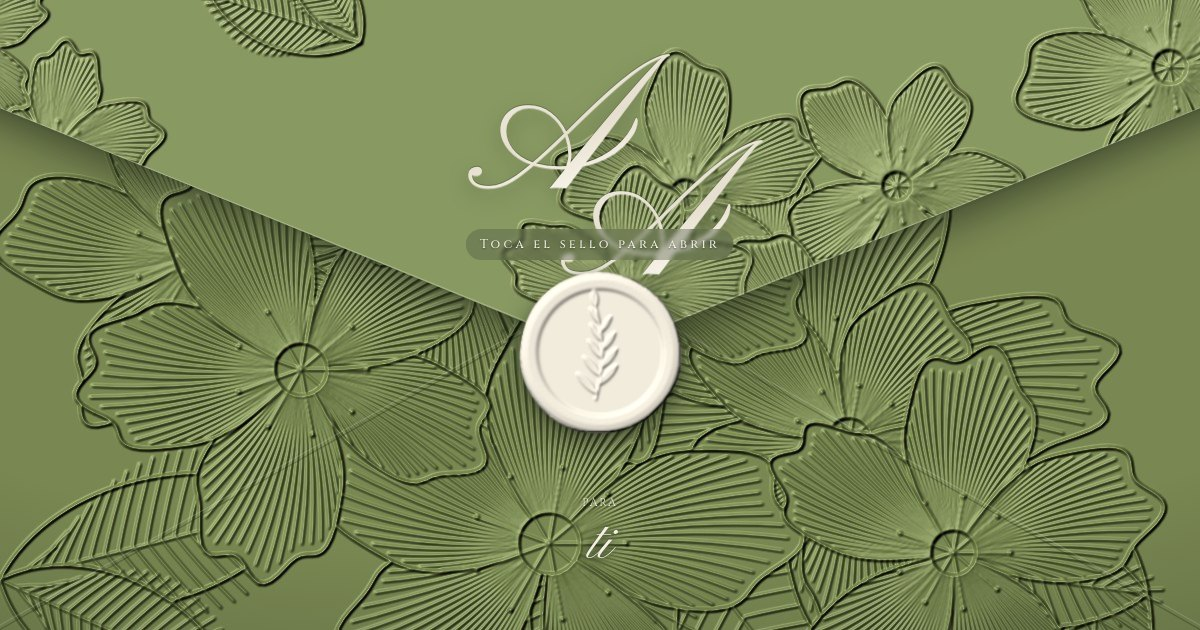
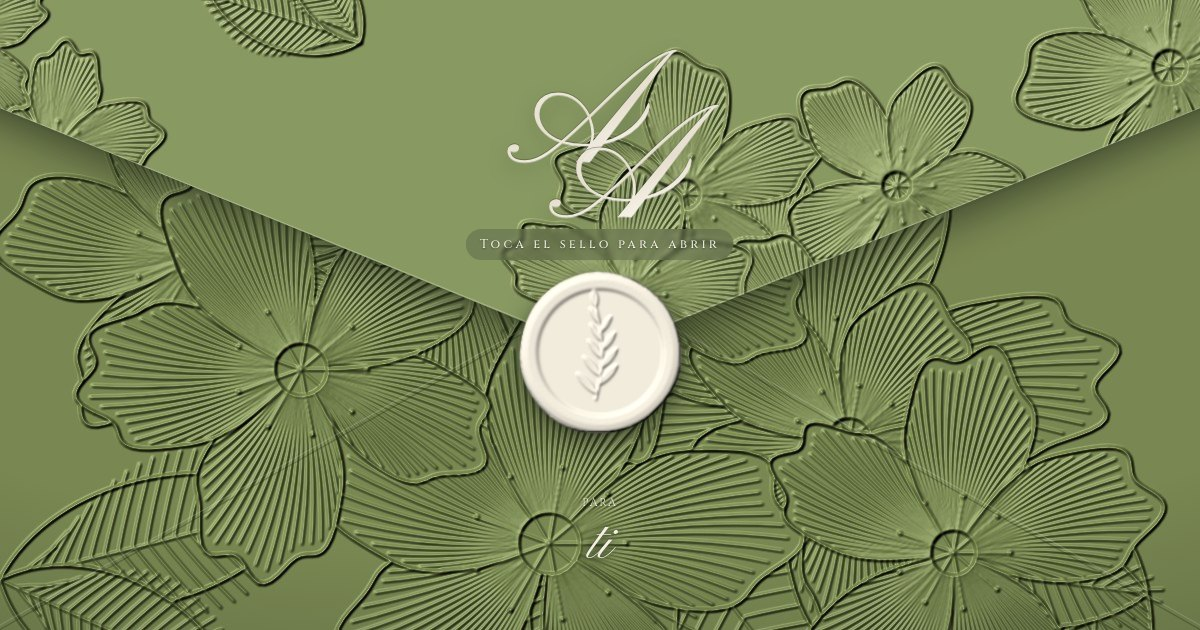
Invitación suelta: tarjeta «Celebra con nosotros» + «¡Prepárate!» (referencia elegida) y monograma del sobre sin tocar la solapa

Changed region(s): [[0.37, 0.0905, 0.6475, 0.4524], [0.5858, 0.1508, 0.6167, 0.181]]

diff --git a/public/inv/angeles-y-alejandro.html b/public/inv/angeles-y-alejandro.html
@@ -259,6 +259,32 @@
   @media (prefers-reduced-motion:reduce){ *{animation:none!important;transition:none!important} }
 </style>
 <style>:root{--salvia:#6b7a45;--salvia-2:#7b8a54;--salvia-osc:#4f5c2f;--bosque:#333d1f}</style><script>window.__PALETA=["#6b7a45","#7b8a54","#4f5c2f","#333d1f"]</script>
+<style>
+  .fc-seccion{gap:0;padding:0 4px}
+  .fc{width:min(420px,100%);padding:58px 26px 70px;border-radius:26px;display:flex;flex-direction:column;align-items:center;gap:6px}
+  .fc .sello-pega{left:50%;top:-30px;width:64px;height:64px;margin-left:-32px;transform:rotate(-8deg)}
+  .fc-titulo{font-size:clamp(17px,4.6vw,21px);letter-spacing:.22em}
+  .fc-mes{width:150px;height:40px;margin:4px 0 -10px;overflow:visible}
+  .fc-mes text{font-family:var(--grabado);font-size:17px;letter-spacing:.18em;fill:var(--tinta)}
+  .fc-fila{display:grid;grid-template-columns:1fr auto 1fr;align-items:center;gap:12px;width:100%}
+  .fc-fila span{font-family:var(--grabado);font-size:clamp(11px,3.2vw,14px);letter-spacing:.14em;line-height:1.35;padding:7px 0;border-top:.75px solid currentColor;border-bottom:.75px solid currentColor;opacity:.9}
+  .fc-fila b{font-family:var(--grabado);font-weight:400;font-size:clamp(52px,14vw,68px);line-height:1;font-variant-numeric:lining-nums}
+  .fc-novios{width:150px;height:150px;margin:4px 0 2px}
+  .fc-que{letter-spacing:.2em;font-size:13px}
+  .fc-lugar{margin:2px 0 8px;font-family:var(--palo);font-size:13px;letter-spacing:.1em}
+  .fc-prepara{width:min(440px,96%);margin-top:-40px;padding-bottom:34px;z-index:3}
+  .fc-prepara .titulo{letter-spacing:.24em}
+  .fc-sub{margin:6px 0 14px;letter-spacing:.24em;font-size:11px}
+  .fc-prepara .cuenta{background:none;box-shadow:none;padding:6px 0 10px}
+  .fc-prepara .cuenta div + div{border-left:0}
+  .fc-prepara .cuenta div{position:relative}
+  .fc-prepara .cuenta div + div::before{content:":";position:absolute;left:-.12em;top:0;font-family:var(--grabado);font-size:clamp(26px,7vw,38px);line-height:1;color:var(--salvia-osc);opacity:.6;transform:translateX(-50%)}
+  .fc-prepara .cuenta b{font-weight:400}
+  .fc-prepara .cuenta span{letter-spacing:.1em;font-size:9px}
+  /* monograma del sobre: dos letras anchas (A A) no deben tocar el borde de la solapa */
+  .monograma-sobre span{font-size:clamp(100px,26vmin,176px)}
+  .monograma-sobre .c{margin:.34em 0 0 -1.3em}
+</style>
 </head><body class="cerrada">
 <script>document.documentElement.classList.add("cerrada");</script>
 
@@ -443,14 +469,28 @@
     <cite id="verso-cita">Cantares 8:6–7</cite>
   </section>
 
-  <section class="faltan" aria-labelledby="t-faltan">
-    <h2 class="titulo" id="t-faltan">Faltan</h2>
-    <div class="cuenta" role="timer" aria-live="off">
-      <div><b id="dd">—</b><span>días</span></div><div><b id="hh">—</b><span>horas</span></div>
-      <div><b id="mm">—</b><span>minutos</span></div><div><b id="ss">—</b><span>segundos</span></div>
-    </div>
-    <a class="boton" id="cal" target="_blank" rel="noopener" style="color:var(--salvia-osc)"
-       href="https://calendar.google.com/calendar/render?action=TEMPLATE&amp;text=Boda%20civil%20de%20Diego%20y%20Camila&amp;dates=20261218T160000Z%2F20261218T230000Z&amp;location=Lampa"><svg aria-hidden="true"><use href="#i-calendario"/></svg>Guardar en mi calendario</a>
+  <section class="faltan fc-seccion" aria-labelledby="t-faltan">
+    <article class="tarjeta greige fc revela">
+      <span class="filete" aria-hidden="true"></span>
+      <span class="sello-pega"><img class="sello-img" data-sello="crema" alt=""></span>
+      <h2 class="titulo fc-titulo">Celebra con nosotros</h2>
+      <svg class="fc-mes" viewBox="0 0 220 56" aria-hidden="true"><path id="fc-arco" d="M40 52 Q110 8 180 52" fill="none"/><text><textPath href="#fc-arco" startOffset="50%" text-anchor="middle">ENERO</textPath></text></svg>
+      <div class="fc-fila"><span>SÁBADO</span><b>16</b><span id="fc-hora">HORA POR<br>CONFIRMAR</span></div>
+      <svg class="icono-linea fc-novios" aria-hidden="true"><use href="#i-novios"/></svg>
+      <p class="cap fc-que">Ceremonia religiosa &amp; recepción</p>
+      <p class="fc-lugar">Capilla Santa Cruz</p>
+      <a class="boton" target="_blank" rel="noopener" href="https://www.google.com/maps/search/?api=1&amp;query=Capilla%20Santa%20Cruz%2C%20La%20Capilla%20115%2C%20Pudahuel"><svg aria-hidden="true"><use href="#i-ubicacion"/></svg>Ver mapa</a>
+    </article>
+    <article class="tarjeta crema arco fc-prepara revela">
+      <span class="filete" aria-hidden="true"></span>
+      <h2 class="titulo" id="t-faltan">¡Prepárate!</h2>
+      <p class="cap fc-sub">Nos vemos dentro de</p>
+      <div class="cuenta" role="timer" aria-live="off">
+        <div><b id="dd">—</b><span>días</span></div><div><b id="hh">—</b><span>horas</span></div>
+        <div><b id="mm">—</b><span>minutos</span></div><div><b id="ss">—</b><span>segundos</span></div>
+      </div>
+      <a class="boton" id="cal" target="_blank" rel="noopener" style="color:var(--salvia-osc)" href="#"><svg aria-hidden="true"><use href="#i-calendario"/></svg>Guardar en mi calendario</a>
+    </article>
   </section>
 
   <section class="escena lugar" aria-label="Dónde">
